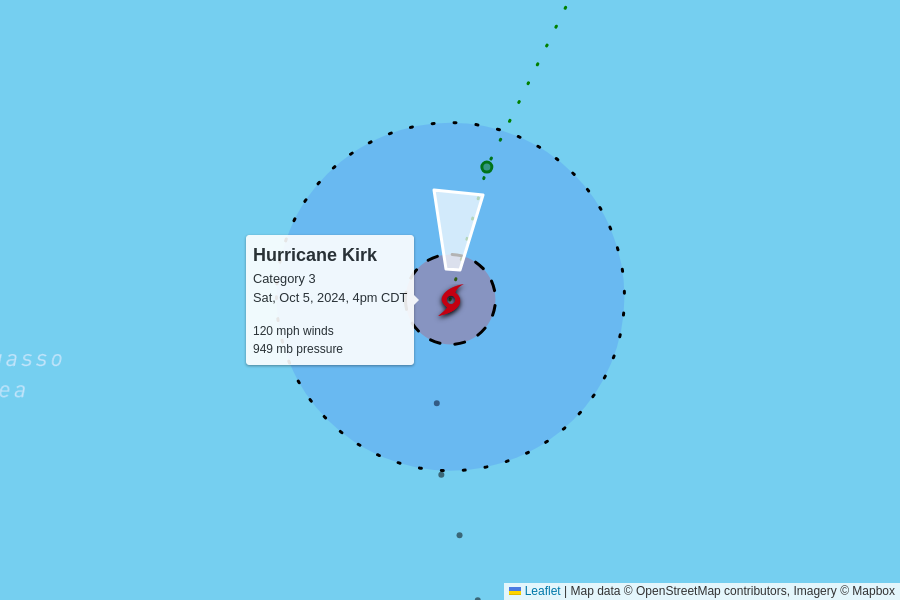
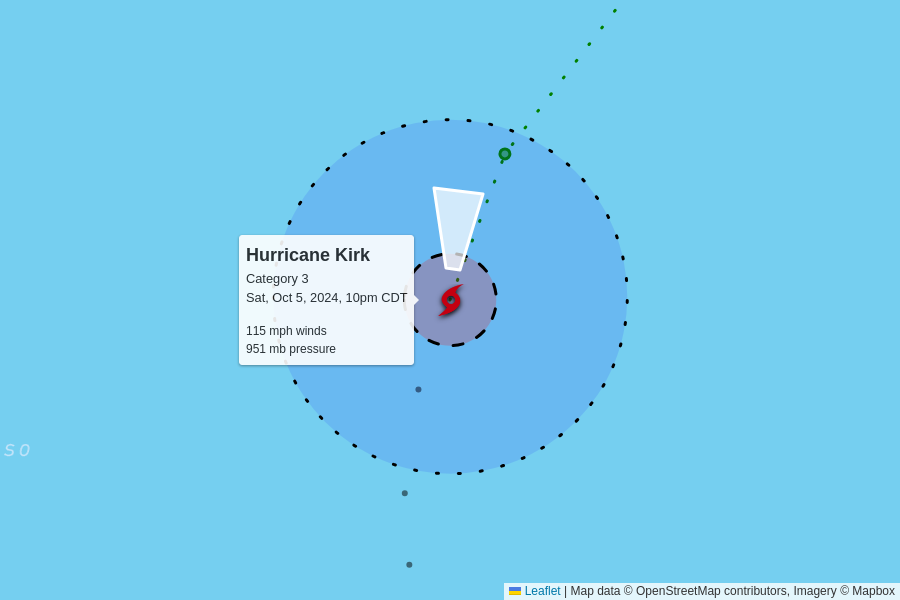
automatic update

diff --git a/docs/index.html b/docs/index.html
@@ -101,6 +101,94 @@
 
     <table>
       <tr>
+        <td colspan="6" class="storm category-3" >
+          <h2>
+            Hurricane Kirk - Category 3
+            <p class="updated">last updated <span data-time>2024-10-06T03:00:00.000Z</span></p>
+          </h2>
+        </td>
+      </tr>
+      
+      <tr>
+        <th class="spacer"></th>
+        <th>wind speed</th>
+        <th>central pressure</th>
+        <th>movement</th>
+        <th>data (CSV)</th>
+        <th>National Hurricane Center</th>
+      </tr>
+      <tr>
+        <td class="spacer"></td>
+        <td>115 mph<br>-5 mph since last update</td>
+        <td>951 mb<br>+2 mb since last update</td>
+        <td>
+          20 mph to the north
+          <br/>
+          <span style="display: inline-block; font-size: 1.5em; transform: rotate(5deg);">↑</span>
+        </td>
+        <td><a href="https://raw.githubusercontent.com/mgwalker/atlantic-hurricanes/main/data/csv/AL122024.csv">AL122024.csv</a></td>
+        <td><a href="https://www.nhc.noaa.gov/archive/2024/KIRK.shtml?">NHC advisories</a></td>
+      </tr>
+      <tr id="storm_AL122024" >
+        <td class="spacer">
+        <td colspan="5">
+          <figure>
+            <img src="AL122024.png">
+            <figcaption>
+              Map data &copy; <a href="https://www.openstreetmap.org/copyright">OpenStreetMap</a> contributors,
+              Imagery &copy; <a href="https://www.mapbox.com/">Mapbox</a> |
+              <a href="https://www.mapbox.com/map-feedback/" target="_blank">Improve this map</a>
+            </figcaption>
+          </figure>
+        </td>
+      </tr>
+      
+
+      <tr>
+        <td colspan="6" class="storm category-1" >
+          <h2>
+            Hurricane Leslie - Category 1
+            <p class="updated">last updated <span data-time>2024-10-06T03:00:00.000Z</span></p>
+          </h2>
+        </td>
+      </tr>
+      
+      <tr>
+        <th class="spacer"></th>
+        <th>wind speed</th>
+        <th>central pressure</th>
+        <th>movement</th>
+        <th>data (CSV)</th>
+        <th>National Hurricane Center</th>
+      </tr>
+      <tr>
+        <td class="spacer"></td>
+        <td>80 mph<br>0 mph since last update</td>
+        <td>985 mb<br>0 mb since last update</td>
+        <td>
+          9 mph to the northwest
+          <br/>
+          <span style="display: inline-block; font-size: 1.5em; transform: rotate(310deg);">↑</span>
+        </td>
+        <td><a href="https://raw.githubusercontent.com/mgwalker/atlantic-hurricanes/main/data/csv/AL132024.csv">AL132024.csv</a></td>
+        <td><a href="https://www.nhc.noaa.gov/archive/2024/LESLIE.shtml?">NHC advisories</a></td>
+      </tr>
+      <tr id="storm_AL132024" >
+        <td class="spacer">
+        <td colspan="5">
+          <figure>
+            <img src="AL132024.png">
+            <figcaption>
+              Map data &copy; <a href="https://www.openstreetmap.org/copyright">OpenStreetMap</a> contributors,
+              Imagery &copy; <a href="https://www.mapbox.com/">Mapbox</a> |
+              <a href="https://www.mapbox.com/map-feedback/" target="_blank">Improve this map</a>
+            </figcaption>
+          </figure>
+        </td>
+      </tr>
+      
+
+      <tr>
         <td colspan="6" class="storm category-0" >
           <h2>
             Tropical Storm Milton
@@ -134,94 +222,6 @@
         <td colspan="5">
           <figure>
             <img src="AL142024.png">
-            <figcaption>
-              Map data &copy; <a href="https://www.openstreetmap.org/copyright">OpenStreetMap</a> contributors,
-              Imagery &copy; <a href="https://www.mapbox.com/">Mapbox</a> |
-              <a href="https://www.mapbox.com/map-feedback/" target="_blank">Improve this map</a>
-            </figcaption>
-          </figure>
-        </td>
-      </tr>
-      
-
-      <tr>
-        <td colspan="6" class="storm category-3" >
-          <h2>
-            Hurricane Kirk - Category 3
-            <p class="updated">last updated <span data-time>2024-10-05T21:00:00.000Z</span></p>
-          </h2>
-        </td>
-      </tr>
-      
-      <tr>
-        <th class="spacer"></th>
-        <th>wind speed</th>
-        <th>central pressure</th>
-        <th>movement</th>
-        <th>data (CSV)</th>
-        <th>National Hurricane Center</th>
-      </tr>
-      <tr>
-        <td class="spacer"></td>
-        <td>120 mph<br>0 mph since last update</td>
-        <td>949 mb<br>0 mb since last update</td>
-        <td>
-          20 mph to the north
-          <br/>
-          <span style="display: inline-block; font-size: 1.5em; transform: rotate(5deg);">↑</span>
-        </td>
-        <td><a href="https://raw.githubusercontent.com/mgwalker/atlantic-hurricanes/main/data/csv/AL122024.csv">AL122024.csv</a></td>
-        <td><a href="https://www.nhc.noaa.gov/archive/2024/KIRK.shtml?">NHC advisories</a></td>
-      </tr>
-      <tr id="storm_AL122024" >
-        <td class="spacer">
-        <td colspan="5">
-          <figure>
-            <img src="AL122024.png">
-            <figcaption>
-              Map data &copy; <a href="https://www.openstreetmap.org/copyright">OpenStreetMap</a> contributors,
-              Imagery &copy; <a href="https://www.mapbox.com/">Mapbox</a> |
-              <a href="https://www.mapbox.com/map-feedback/" target="_blank">Improve this map</a>
-            </figcaption>
-          </figure>
-        </td>
-      </tr>
-      
-
-      <tr>
-        <td colspan="6" class="storm category-1" >
-          <h2>
-            Hurricane Leslie - Category 1
-            <p class="updated">last updated <span data-time>2024-10-05T21:00:00.000Z</span></p>
-          </h2>
-        </td>
-      </tr>
-      
-      <tr>
-        <th class="spacer"></th>
-        <th>wind speed</th>
-        <th>central pressure</th>
-        <th>movement</th>
-        <th>data (CSV)</th>
-        <th>National Hurricane Center</th>
-      </tr>
-      <tr>
-        <td class="spacer"></td>
-        <td>80 mph<br>0 mph since last update</td>
-        <td>985 mb<br>0 mb since last update</td>
-        <td>
-          8 mph to the west-northwest
-          <br/>
-          <span style="display: inline-block; font-size: 1.5em; transform: rotate(300deg);">↑</span>
-        </td>
-        <td><a href="https://raw.githubusercontent.com/mgwalker/atlantic-hurricanes/main/data/csv/AL132024.csv">AL132024.csv</a></td>
-        <td><a href="https://www.nhc.noaa.gov/archive/2024/LESLIE.shtml?">NHC advisories</a></td>
-      </tr>
-      <tr id="storm_AL132024" >
-        <td class="spacer">
-        <td colspan="5">
-          <figure>
-            <img src="AL132024.png">
             <figcaption>
               Map data &copy; <a href="https://www.openstreetmap.org/copyright">OpenStreetMap</a> contributors,
               Imagery &copy; <a href="https://www.mapbox.com/">Mapbox</a> |
